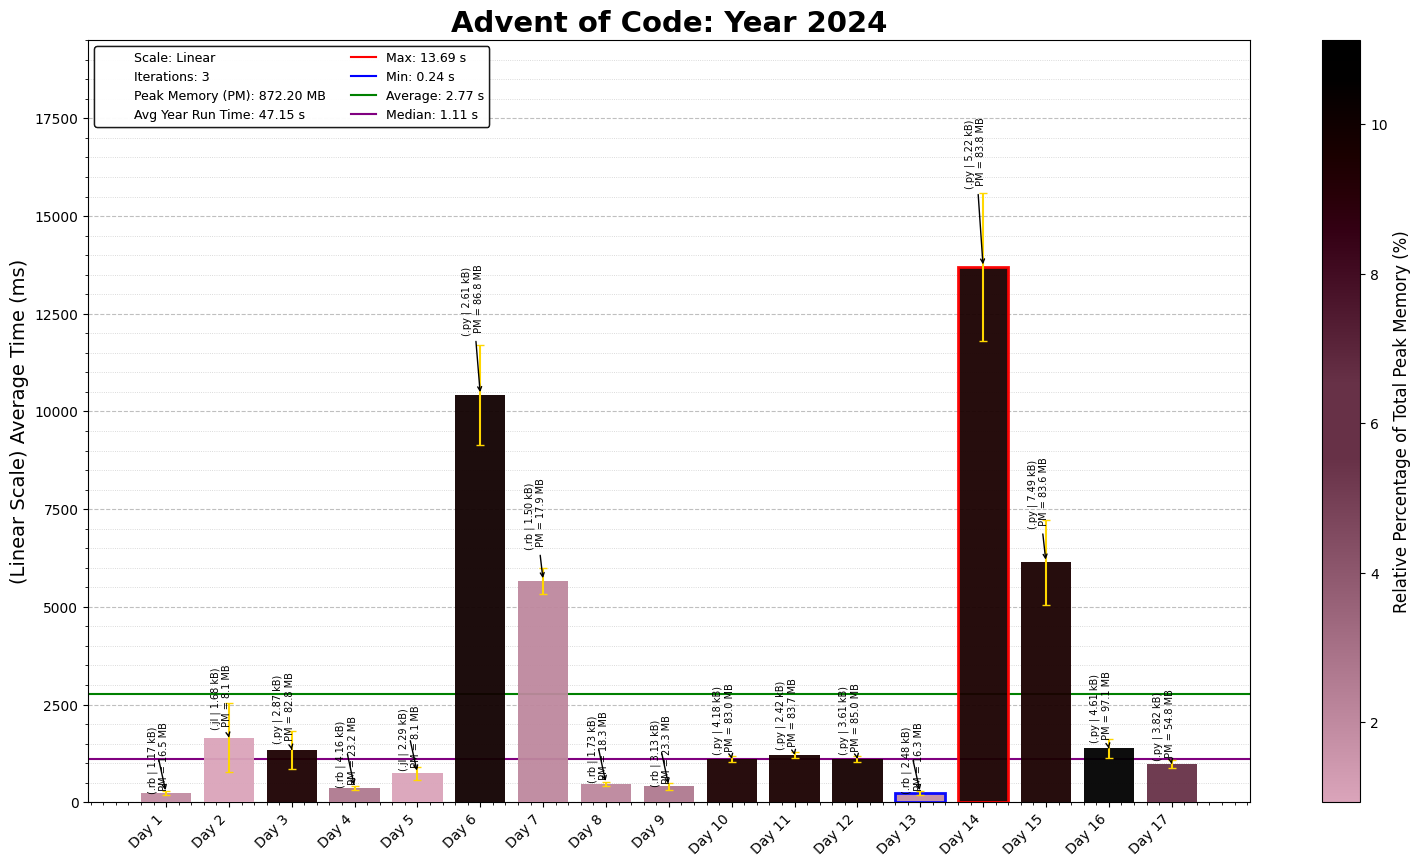
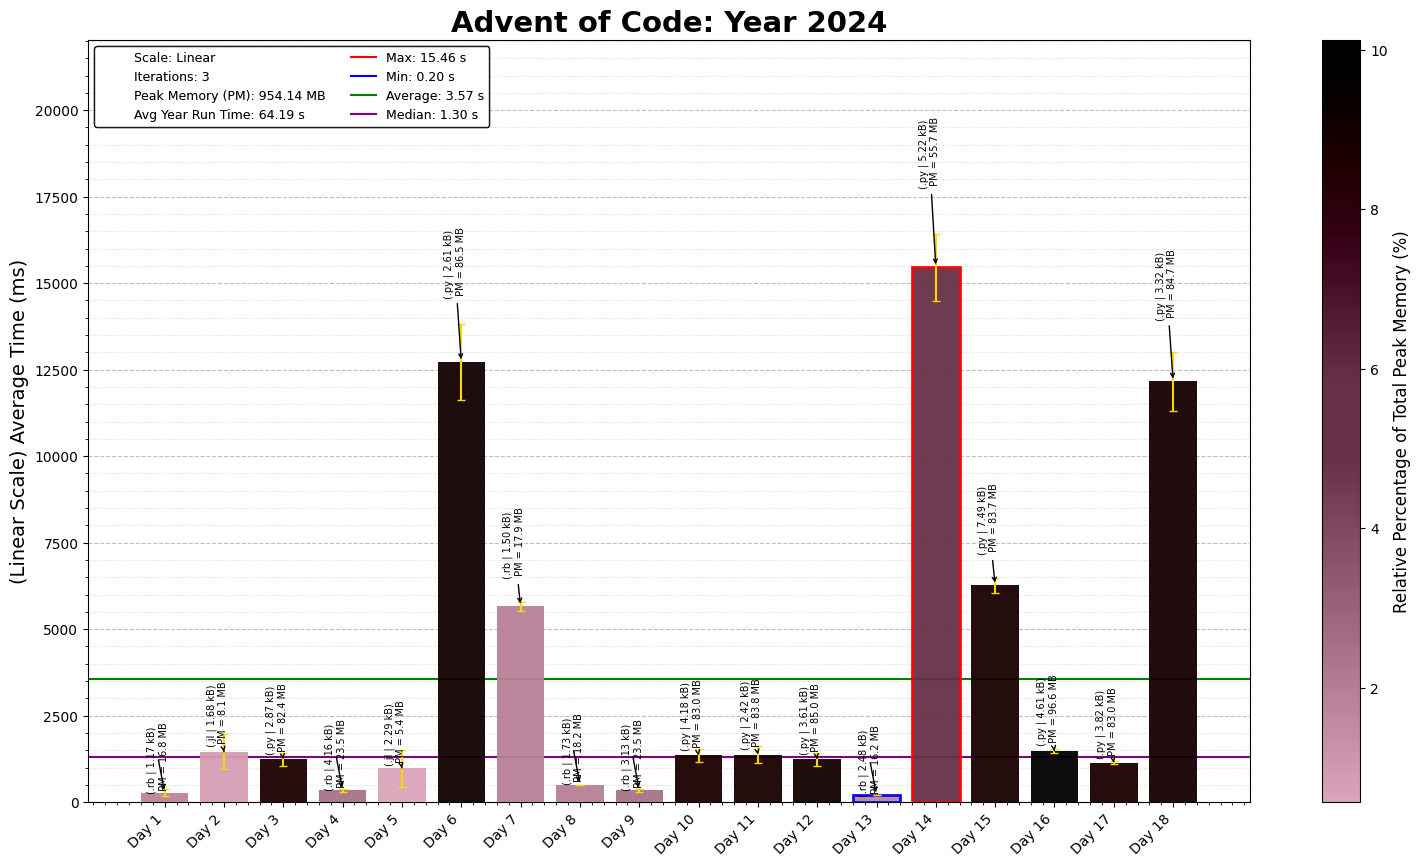
2024 Day 18

diff --git a/2024/18/2024Day18.py b/2024/18/2024Day18.py
@@ -1,0 +1,105 @@
+"""Advent of Code - Day 18, Year 2024
+Solution Started: Dec 18, 2024
+Puzzle Link: https://adventofcode.com/2024/day/18
+Solution by: abbasmoosajee07
+Brief: [Path Finder in a Grid]
+"""
+
+#!/usr/bin/env python3
+
+import os, re, copy, time
+import numpy as np
+import pandas as pd
+import matplotlib.pyplot as plt
+from collections import deque
+start_time = time.time()
+# Load the input data from the specified file path
+D18_file = "Day18_input.txt"
+D18_file_path = os.path.join(os.path.dirname(os.path.abspath(__file__)), D18_file)
+
+# Read and sort input data into a grid
+with open(D18_file_path) as file:
+    input_data = file.read().strip().split('\n')
+    all_walls =   [(int(coords.split(',')[0]),
+                    int(coords.split(',')[1])) for coords in input_data]
+
+def get_grid_bounds(walls):
+
+    if not walls:
+        return (0, 0, 0, 0)  # Default if no walls exist
+
+    x_coords = [x for x, y in walls]
+    y_coords = [y for x, y in walls]
+
+    min_x = min(x_coords)
+    max_x = max(x_coords)
+    min_y = min(y_coords)
+    max_y = max(y_coords)
+
+    return (min_x, max_x, min_y, max_y), (min_x, min_y), (max_x, max_y)
+
+def bfs_shortest_path(start, target, walls, grid_bounds):
+
+    min_x, max_x, min_y, max_y = grid_bounds
+    directions = [(0, 1), (1, 0), (0, -1), (-1, 0)]  # Up, Right, Down, Left
+
+    # Check if start or target is a wall
+    if start in walls or target in walls:
+        return -1
+
+    # Initialize BFS
+    queue = deque([(start, 0)])  # (current_position, steps)
+    visited = set()
+    visited.add(start)
+
+    # BFS loop
+    while queue:
+        current, steps = queue.popleft()
+
+        # Check if we reached the target
+        if current == target:
+            return steps, True
+
+        # Explore neighbors
+        for dx, dy in directions:
+            neighbor = (current[0] + dx, current[1] + dy)
+            if (
+                min_x <= neighbor[0] <= max_x and  # Stay within x bounds
+                min_y <= neighbor[1] <= max_y and  # Stay within y bounds
+                neighbor not in walls and         # Avoid walls
+                neighbor not in visited           # Avoid revisiting
+            ):
+                queue.append((neighbor, steps + 1))
+                visited.add(neighbor)
+
+    # If we exhaust the queue, no path exists
+    return -1, False
+
+def find_blocking_wall(start, target, walls, grid_bounds):
+
+    # Copy walls to simulate adding them incrementally
+    incremental_walls = set()
+    for wall in walls:
+        # Add the wall incrementally
+        incremental_walls.add(wall)
+        
+        # Check if the path is still reachable
+        _, wall_reached = bfs_shortest_path(start, target, incremental_walls, grid_bounds)
+        if not wall_reached:
+            return wall  # Return the first wall that blocks the path
+
+    # If all walls are added and the path is never blocked
+    return None
+
+walls_p1 = all_walls[:1024]
+walls_p2 = all_walls  # Walls to simulate
+grid_bounds, start, goal = get_grid_bounds(all_walls)
+
+# Call BFS
+shortest_path_length, _ = bfs_shortest_path(start, goal, walls_p1, grid_bounds)
+print(f"Part 1: {shortest_path_length}")
+
+# Find the first blocking wall
+blocking_wall = find_blocking_wall(start, goal, walls_p2, grid_bounds)
+print(f"Part 2: {blocking_wall}")
+print(time.time()-start_time)

diff --git a/2024/README_2024.md b/2024/README_2024.md
@@ -21,3 +21,4 @@ This repository contains coding solutions for the 2024 Advent of Code. Its the f
 15. **Day 15- Warehouse Woes**: *Python* | Moving elements in a grid according to a set of instructions, seems complicated but fairly manageable, once you work out a couple of edge cases. Not the most elegant solution, but definitely one of my favourite ones overall.
 16. **Day 16- Reindeer Maze**: *Python* | A* search to find minimum path in a maze, adapted a fairly standard algorithm with the cost function.
 17. **Day 17- Chronospatial Computer**: *Python* | Build an assembly computer with 8 main functions
+18. **Day 18- RAM Run**: *Python* | Path finder in a 2D grid, using BFS algorithm. Probably look to optimise it later on
